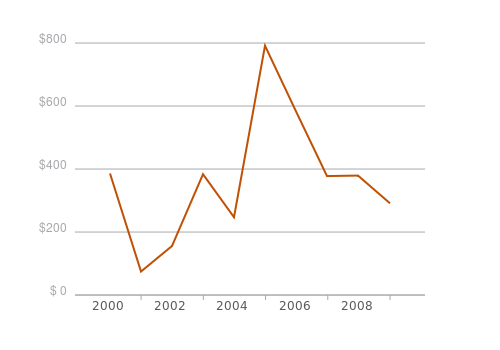
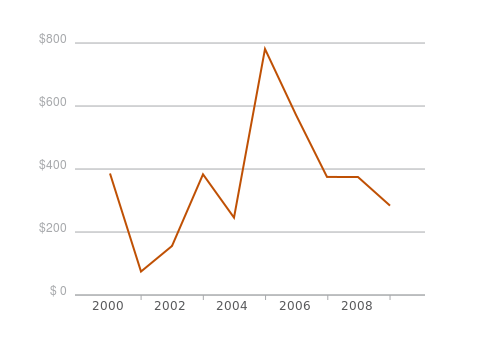
updated housing contracts graphic

diff --git a/trunk/charts/housing/housing_graphs.py b/trunk/charts/housing/housing_graphs.py
@@ -19,15 +19,15 @@ energy_grants.output('../../media/images/charts/housing/housing_direct_expenditu
 
 
 energy_contracts = Line(500, 350, [[ (2000, 381234796), 
-                                  (2001, 73589876), 
+                                  (2001, 73570164), 
                                   (2002, 153773357), 
-                                  (2003, 378937334), 
-                                  (2004, 243981896), 
-                                  (2005, 782114440), 
-                                  (2006, 576079508),
-                                  (2007, 373125797), 
-                                  (2008, 374693948), 
-                                  (2009, 287651498)]], '../linechart.css', currency=True, x_padding=35, padding=40, units="", label_intervals=2)
+                                  (2003, 378627667), 
+                                  (2004, 242757442), 
+                                  (2005, 771865965), 
+                                  (2006, 565050221),
+                                  (2007, 370390383), 
+                                  (2008, 370115110), 
+                                  (2009, 280403612)]], '../linechart.css', currency=True, x_padding=35, padding=40, units="", label_intervals=2)
 energy_contracts.output('../../media/images/charts/housing/housing_contracts.svg')
 
 #struct1 = Pie(300, 300, [[('',  76.4), 
@@ -52,15 +52,15 @@ test.output("../../media/images/charts/housing/test.svg")
 top_housing_TE = Column(600, 350, [[("Deductibility of\n mortgage interest \non owner-occupied\n homes", 79400000000), ("Deductibility of \nState and local\n property tax on \nowner-occupied \nhomes", 29010000000), ("Exclusion of\n net imputed\n rental income on \nowner-occupied \nhomes", 27040000000), ("Capital gains\n exclusion on\n home sales", 24000000000), ("Credit for\n homebuyer",10000000000 ) ]], "barchart_housing.css", x_label_padding=20, x_padding=5, padding=20, x_label_height=80, units=False, currency=True, max_x_point_width=70)
 top_housing_TE.output("../../media/images/charts/housing/top_housing_TE.svg")
 
-grants = Column(500, 250, [[('Programs Containing Subsidy', 58781363031), ('Subsidy', 'Subsidy Cost Unknown')]], "barchart_grants.css", units=True, currency=True, use_zero_minimum=True )
-grants.output("../../media/images/charts/housing/grants.svg")
+#grants = Column(500, 250, [[('Programs Containing Subsidy', 58781363031), ('Subsidy', 'Subsidy Cost Unknown')]], "barchart_grants.css", units=True, currency=True, use_zero_minimum=True )
+#grants.output("../../media/images/charts/housing/grants.svg")
 
 contracts = Line(500, 250, [[(2000, 381234796), (2001, 73589876), (2002, 153773357), (2003, 378937334), (2004, 243981896), (2005, 782114440), (2006, 576079508), (2007, 373125797), (2008, 374693948), (2009, 287651498)]], "../linechart.css", currency=True, use_zero_minimum=True, x_padding=20, label_intervals=2, label_offset=1)
 contracts.output("../../media/images/charts/housing/contracts.svg")
 
 
-tax_expend = Column(500, 250, [[('Programs Containing Subsidy', 185230000000), ('Subsidy', 185230000000)]], "barchart_te.css", units=True, currency=True, use_zero_minimum=True )
-tax_expend.output("../../media/images/charts/housing/tax_expenditures.svg")
+#tax_expend = Column(500, 250, [[('Programs Containing Subsidy', 185230000000), ('Subsidy', 185230000000)]], "barchart_te.css", units=True, currency=True, use_zero_minimum=True )
+#tax_expend.output("../../media/images/charts/housing/tax_expenditures.svg")
 
-housing_activities = StackedColumn(500, 300, [[('Grant Expenditures', 386603767), ('Tax Expenditures', 170740000000)], [('Grant Expenditures', 43130045891), ('Tax Expenditures', 14490000000)], [('Grant Expenditures', 15542205373), ('Tax Expenditures', 0)]], "../stacked_barchart.css", units=True, currency=True, use_zero_minimum=True, x_padding=30, padding=5)
-housing_activities.output("../../media/images/charts/housing/activities_supported_by_housing_spending.svg")
+#housing_activities = StackedColumn(500, 300, [[('Grant Expenditures', 386603767), ('Tax Expenditures', 170740000000)], [('Grant Expenditures', 43130045891), ('Tax Expenditures', 14490000000)], [('Grant Expenditures', 15542205373), ('Tax Expenditures', 0)]], "../stacked_barchart.css", units=True, currency=True, use_zero_minimum=True, x_padding=30, padding=5)
+#housing_activities.output("../../media/images/charts/housing/activities_supported_by_housing_spending.svg")
